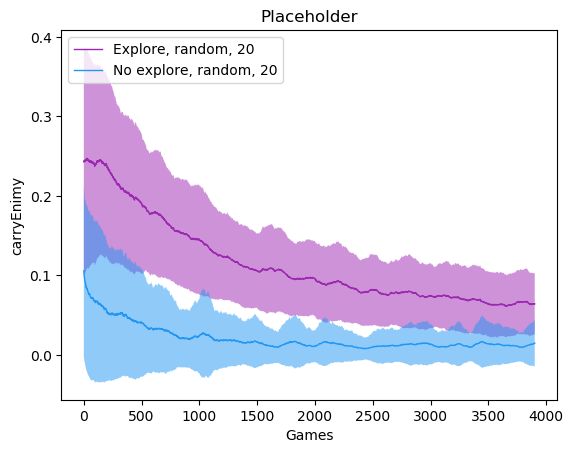
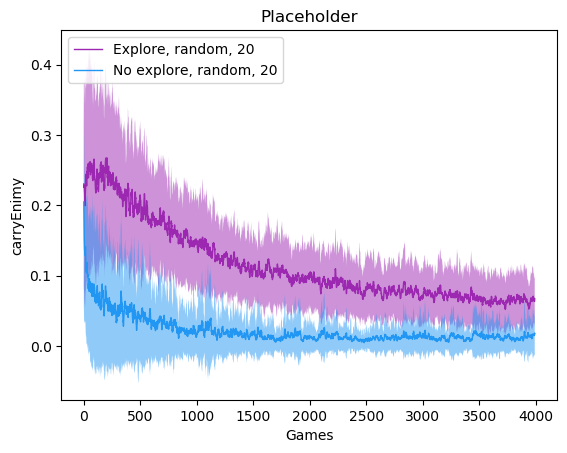
fix

diff --git a/Analyse/explorerAna.py b/Analyse/explorerAna.py
@@ -7,4 +7,4 @@ for feature in ['gameLength', 'minBase', 'dinBase', 'meandistMine', 'meandistDin
     with AnalysePlot(feature=feature, title='Placeholder', savepos=f'Explorer-{feature}') as plt:
         for fil, name in agents:
             mean, sd = DataFinder(fil)
-            plt.varPlot(plt, mean[feature], sd=sd[feature], name=name, useSD=True, runningMean=100)
+            plt.varPlot(plt, mean[feature], sd=sd[feature], name=name, useSD=True, runningMean=10)
